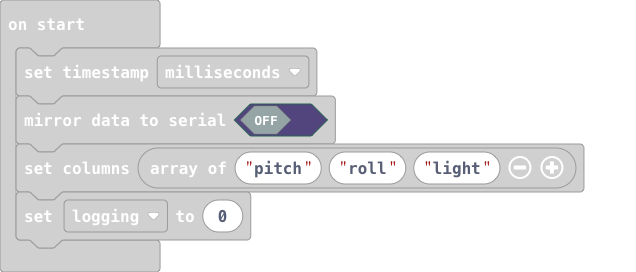
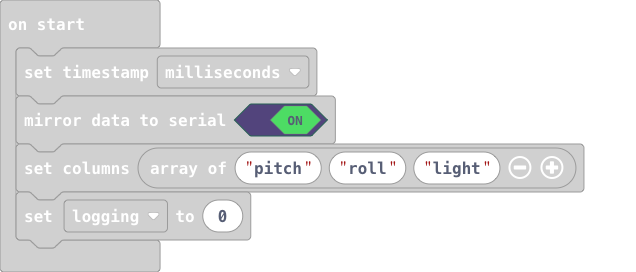
mirror on

Changed region(s): [[0.3585, 0.3824, 0.5079, 0.5]]

diff --git a/main.ts b/main.ts
@@ -12,7 +12,7 @@ input.onButtonPressed(Button.B, function () {
 })
 let logging = 0
 datalogger.includeTimestamp(FlashLogTimeStampFormat.Milliseconds)
-datalogger.mirrorToSerial(false)
+datalogger.mirrorToSerial(true)
 datalogger.setColumns(["pitch", "roll", "light"])
 logging = 0
 basic.forever(function () {
